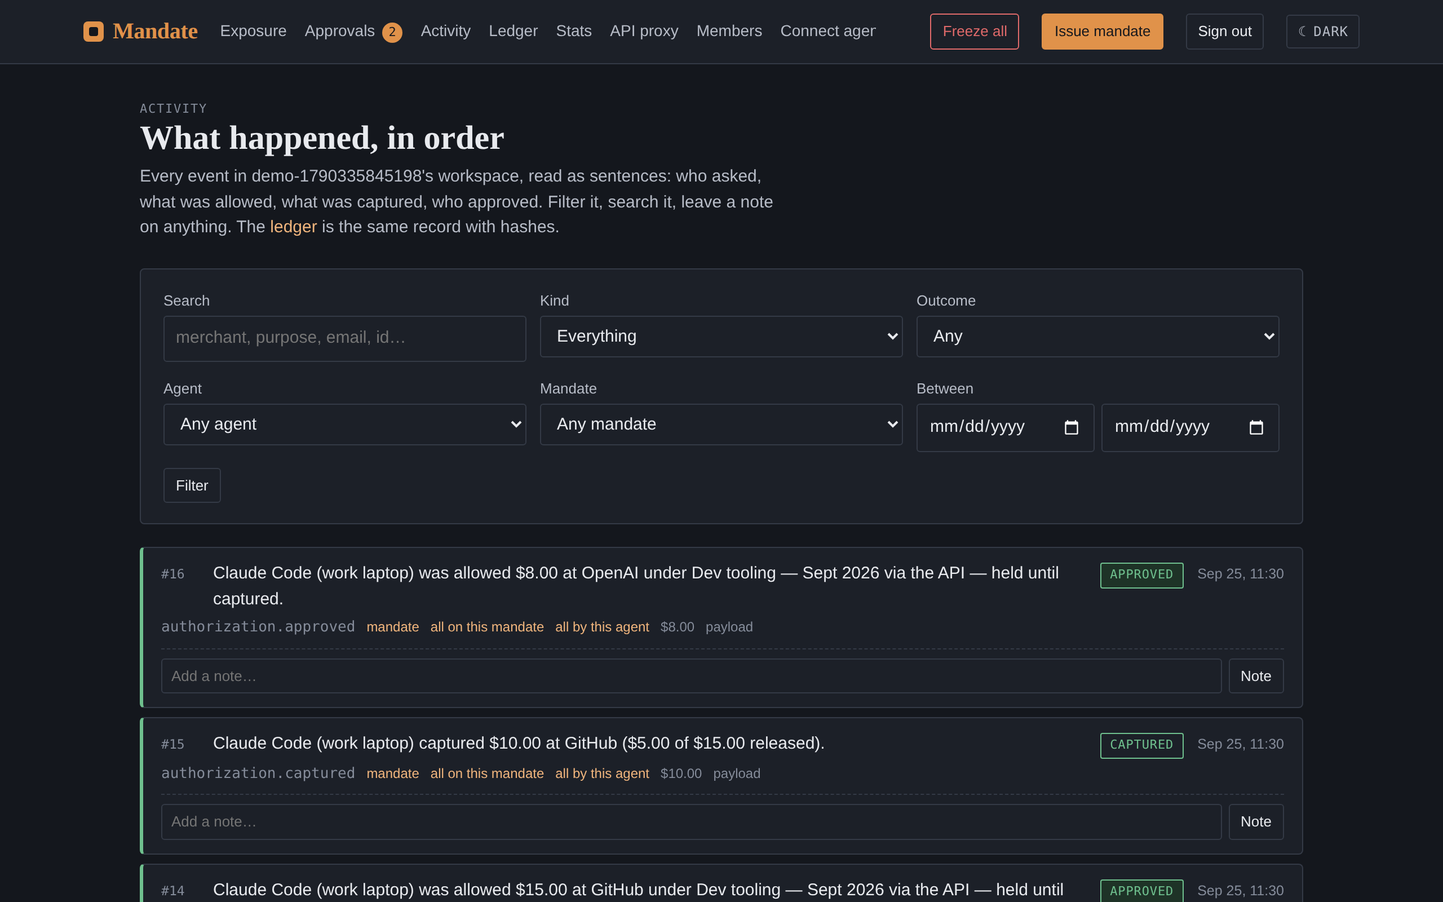
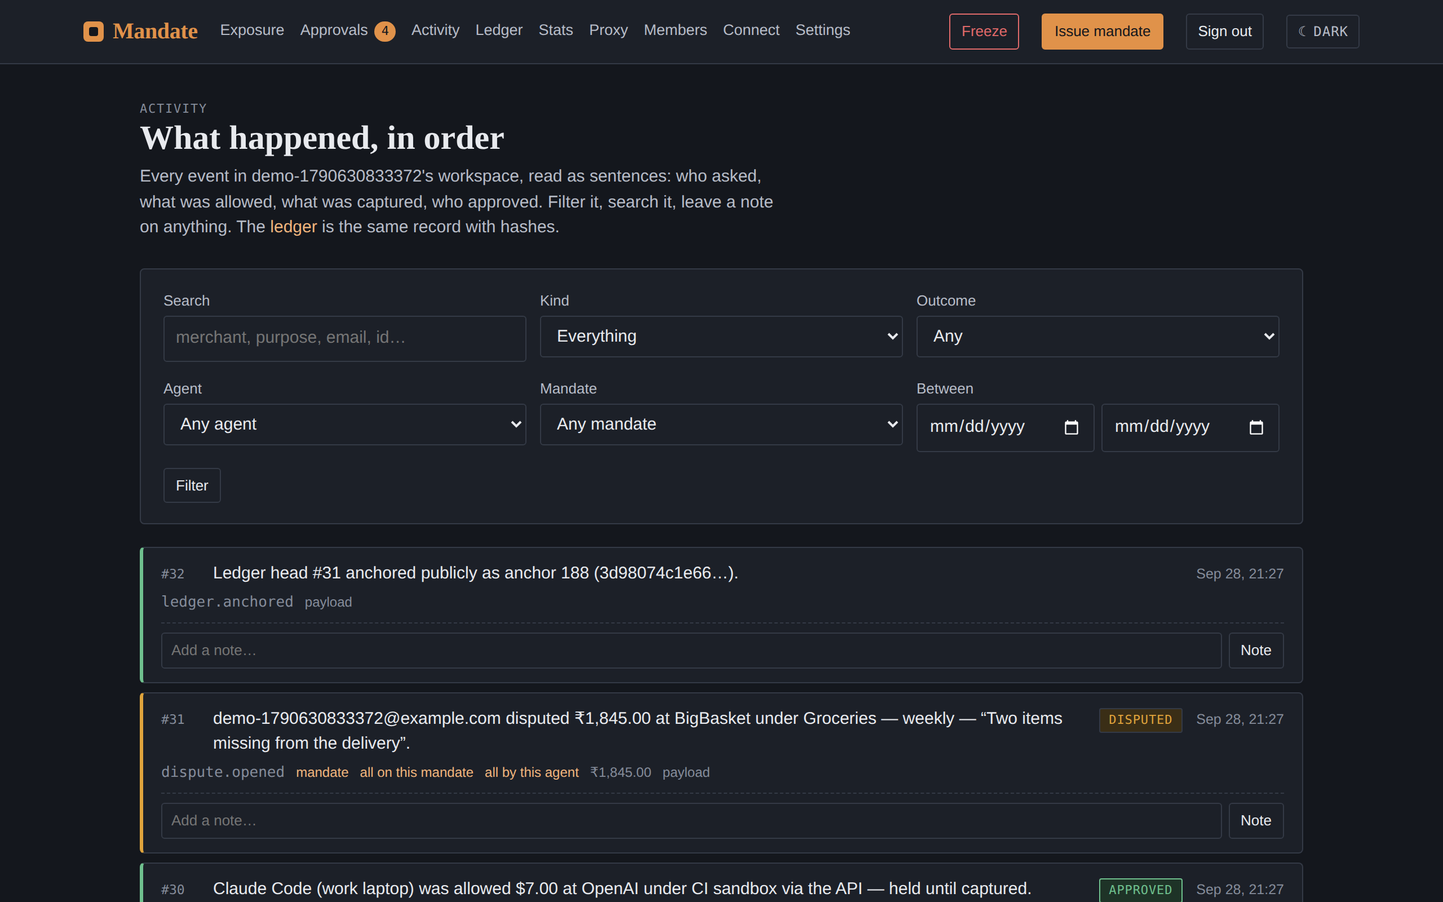
README: 0.7 feature tour and fresh screenshots; richer demo seed; top bar fits; exposure counts

diff --git a/app/api/dev/seed/route.ts b/app/api/dev/seed/route.ts
@@ -1,6 +1,8 @@
 import { NextResponse } from "next/server";
 import { getCtx, can } from "@/lib/session";
-import { createAgent, createMandate, authorize, listAgents, captureTransaction } from "@/lib/service";
+import { createAgent, createMandate, authorize, listAgents, captureTransaction, delegateMandate, openDispute } from "@/lib/service";
+import { addRoute } from "@/lib/routing";
+import { anchorWorkspace } from "@/lib/anchors";
 
 // Populates the signed-in user's workspace with a demo state. Development
 // only (or ALLOW_SEED=1); runs once per empty workspace. It mutates, so it
@@ -47,5 +49,34 @@ export async function POST() {
   if (seat.decision === "approved") await captureTransaction({ mandateId: dev.mandate.id }, seat.transactionId, { amount: 1000, by: "agent", note: "seat prorated" });
   results.push(seat, await authorize(dev.mandate, { amount: 800, merchant: "OpenAI", purpose: "Embeddings batch" }, "agent_api", { actor: `token ${dev.mandate.tokenPrefix}…` }));
 
-  return NextResponse.json({ seeded: true, workspace: ws, decisions: results.map((r) => r.decision), tokens: { dev: dev.token, home: home.token } });
+  // The newer machinery, so the demo shows it: a team mandate with a veto
+  // window and co-signing, a helper delegated out of it, a sandbox, a
+  // dispute, an approval route, and the first public anchor.
+  const extras: Record<string, unknown> = {};
+  try {
+    await addRoute(ws, { name: "Big spends → owner", minAmount: 30000, userIds: [ctx.userId], priority: 10 }, ctx.email);
+    const booker = await createAgent(ws, { name: "Travel booker", description: "Books flights, hotels and rides for the team offsite." });
+    const travel = await createMandate(ws, {
+      agentId: booker.id, name: "Offsite travel — Q4", currency: "USD",
+      perTxnLimit: 60000, dailyLimit: 150000, totalLimit: 400000, approvalAbove: 20000,
+      allowedMerchants: [], blockedCategories: ["gambling"], activeHoursStart: 0, activeHoursEnd: 24, timezone: "Asia/Kolkata", expiresAt: null,
+      vetoAbove: 10000, vetoMinutes: 30, cosignAbove: 40000, cosignCount: 2,
+    });
+    if (travel.ok) {
+      const t = travel.mandate;
+      await authorize(t, { amount: 8900, merchant: "Uber", purpose: "Airport transfer" }, "agent_api", { actor: `token ${t.tokenPrefix}…` });
+      await authorize(t, { amount: 15500, merchant: "MakeMyTrip", purpose: "Hotel, 2 nights, deposit" }, "agent_api", { actor: `token ${t.tokenPrefix}…` }); // veto window
+      await authorize(t, { amount: 45200, merchant: "IndiGo", purpose: "6 return fares, offsite" }, "agent_api", { actor: `token ${t.tokenPrefix}…` }); // needs two approvers
+      const helper = await delegateMandate(t, { name: "Fare watcher", perTxnLimit: 5000, dailyLimit: 10000, totalLimit: 20000, approvalAbove: 3000, allowedMerchants: ["Skyscanner*", "Google Flights"], agentName: "Fare watcher (sub-agent)", by: `token ${t.tokenPrefix}…` });
+      if (helper.ok) { const h = await authorize(helper.mandate, { amount: 1200, merchant: "Skyscanner API", purpose: "Fare alerts, weekly" }, "agent_api", { actor: `token ${helper.mandate.tokenPrefix}…` }); if (h.decision === "approved") await captureTransaction({ mandateId: helper.mandate.id }, h.transactionId, { by: "agent" }); extras.helper = helper.mandate.id; }
+      extras.travel = t.id;
+    }
+    const sandbox = await createMandate(ws, { agentId: coder.id, name: "CI sandbox", currency: "USD", perTxnLimit: 5000, dailyLimit: 15000, totalLimit: 50000, approvalAbove: 2000, allowedMerchants: [], blockedCategories: [], activeHoursStart: 0, activeHoursEnd: 24, timezone: "UTC", expiresAt: null, sandbox: true });
+    if (sandbox.ok) { await authorize(sandbox.mandate, { amount: 700, merchant: "OpenAI", purpose: "integration test run" }, "agent_api", { actor: "ci" }); extras.sandbox = sandbox.mandate.id; }
+    const grocery = results[5];
+    if (grocery.decision === "approved") await openDispute(ws, grocery.transactionId, { reason: "Two items missing from the delivery", by: ctx.email });
+    await anchorWorkspace(ws);
+  } catch (e) { extras.error = (e as Error).message; }
+
+  return NextResponse.json({ seeded: true, workspace: ws, decisions: results.map((r) => r.decision), tokens: { dev: dev.token, home: home.token }, extras });
 }

diff --git a/app/page.tsx b/app/page.tsx
@@ -18,7 +18,11 @@ export default async function ExposurePage({ searchParams }: { searchParams: Pro
   ]);
   // Sandbox mandates and sub-mandates stay out of the headline totals: the
   // first are tests, the second already count inside their parents.
-  const active = book.filter((b) => b.effectiveStatus === "active" && b.mandate.sandbox !== 1 && !b.mandate.parentId);
+  const live = book.filter((b) => b.effectiveStatus === "active");
+  const active = live.filter((b) => b.mandate.sandbox !== 1 && !b.mandate.parentId);
+  const inactive = book.length - live.length;
+  const subCount = live.filter((b) => b.mandate.parentId).length;
+  const sandboxCount = live.filter((b) => b.mandate.sandbox === 1).length;
   const byCcy = new Map<string, { limit: number; used: number }>();
   for (const b of active) {
     const c = byCcy.get(b.mandate.currency) ?? { limit: 0, used: 0 };
@@ -67,7 +71,7 @@ export default async function ExposurePage({ searchParams }: { searchParams: Pro
       </div>
 
       <div className="kpis">
-        <div className="kpi"><div className="eyebrow">Active mandates</div><div className="v num">{active.length}</div><div className="s">{agents.length} agent{agents.length === 1 ? "" : "s"} · {book.length - active.length} revoked or expired</div></div>
+        <div className="kpi"><div className="eyebrow">Active mandates</div><div className="v num">{active.length}</div><div className="s">{agents.length} agent{agents.length === 1 ? "" : "s"}{subCount > 0 && <> · {subCount} sub-mandate{subCount === 1 ? "" : "s"}</>}{sandboxCount > 0 && <> · {sandboxCount} sandbox</>} · {inactive} revoked or expired</div></div>
         <div className="kpi"><div className="eyebrow">Sanctioned limit</div>
           <div className="v num">{[...byCcy].map(([c, v]) => fmt(v.limit, c)).join(" + ") || "—"}</div>
           <div className="s">total across active mandates</div></div>

diff --git a/app/panic.tsx b/app/panic.tsx
@@ -16,7 +16,7 @@ export function PanicButton({ action }: { action: (form: FormData) => void | Pro
   }, []);
   return (
     <details ref={ref} className="menu panic" open={open} onToggle={(e) => setOpen((e.target as HTMLDetailsElement).open)}>
-      <summary className="btn danger sm" title="Freeze every agent in this workspace, on every rail, right now">Freeze all</summary>
+      <summary className="btn danger sm" title="Freeze every agent in this workspace, on every rail, right now">Freeze</summary>
       <form action={action} className="menu-body form" style={{ minWidth: 280 }}>
         <div style={{ fontSize: 13.5 }}><strong>Stop every agent now?</strong> Every request in this workspace will be declined — cards, API, MCP and proxy — until you unfreeze. Nothing is revoked.</div>
         <div className="field"><label htmlFor="panic-reason">Why (optional)</label><input id="panic-reason" name="reason" placeholder="agent is looping" autoComplete="off" /></div>

diff --git a/app/layout.tsx b/app/layout.tsx
@@ -61,10 +61,10 @@ export default async function RootLayout({ children }: { children: React.ReactNo
                 <Link href="/activity">Activity</Link>
                 <Link href="/ledger">Ledger</Link>
                 <Link href="/stats">Stats</Link>
-                <Link href="/proxy">API proxy</Link>
+                <Link href="/proxy">Proxy</Link>
                 {stripeEnabled() && <Link href="/balance">Balance</Link>}
                 <Link href="/members">Members</Link>
-                <Link href="/connect">Connect agents</Link>
+                <Link href="/connect">Connect</Link>
                 <Link href="/settings">Settings</Link>
               </nav>
             )}

diff --git a/app/globals.css b/app/globals.css
@@ -49,7 +49,7 @@ p{margin:0 0 10px;max-width:68ch}
 .brand .mark{width:18px;height:18px;border-radius:4px;background:var(--brand);display:inline-block;position:relative}
 .brand .mark::after{content:"";position:absolute;left:5px;top:5px;width:8px;height:8px;border-radius:2px;background:var(--bg)}
 .brand:hover{text-decoration:none}
-.nav{display:flex;gap:16px;font-size:14px;overflow-x:auto;scrollbar-width:none;min-width:0}
+.nav{display:flex;gap:14px;font-size:13.5px;overflow-x:auto;scrollbar-width:none;min-width:0}
 .nav::-webkit-scrollbar{display:none}
 .nav a{color:var(--ink-2);padding:6px 0;border-bottom:2px solid transparent}
 .nav a:hover{text-decoration:none;color:var(--ink)}

diff --git a/README.md b/README.md
@@ -1,11 +1,11 @@
 <p align="center">
-  <img src="docs/images/exposure.png" alt="Mandate — the exposure book: what your agents may spend, and what they have" width="100%">
+  <img src="docs/images/exposure.png" alt="Mandate — the exposure book: every agent's mandate, sub-mandates and sandboxes, what they may spend and what they have, with the panic button in the top bar" width="100%">
 </p>
 
 <h1 align="center">Mandate</h1>
 
 <p align="center"><strong>Scoped, revocable spending authority for AI agents.</strong><br>
-Give an agent a limit instead of a card. Every request is decided against the terms you set, every decision is written to a signed ledger, and revoking cuts the agent off instantly.</p>
+Give an agent a limit instead of a card. Every request is decided against the terms you set, every decision is written to a signed, publicly anchored ledger, and one button freezes everything.</p>
 
 <p align="center">
   <a href="https://github.com/Ivan825/Mandate/actions/workflows/ci.yml"><img src="https://github.com/Ivan825/Mandate/actions/workflows/ci.yml/badge.svg" alt="CI"></a>
@@ -39,6 +39,8 @@ Mandate replaces the card with a **mandate**: how much per transaction, per day 
 | **MCP + OAuth 2.1** — Claude, ChatGPT, Cursor, any MCP client | A scoped OAuth token from a one-click consent | Mandate, on every tool call |
 | **API-key proxy** — OpenAI / Anthropic / Gemini | A proxy key bound to a mandate; the real key never leaves Mandate | Mandate prices, pre-authorises and settles each call |
 | **REST** — your own code | A `mnd_…` token shown once at issue | Mandate decides; the agent reports merchant and amount |
+| **Any HTTP API** — a scraper, a data vendor, your own service | A proxy key bound to a mandate and a *target*; the credential is injected server-side | Mandate prices each call (fixed, or from the response) and settles it |
+| **Vouchers** — merchants, no account needed | A signed, offline-verifiable authorisation the agent hands over with the order | The merchant verifies with a public key and redeems it for what was sold |
 | **Virtual cards** — Stripe Issuing (operator opt-in) | A card bound to a mandate, funded from a prepaid balance | Every authorisation decided in real time by the same engine |
 
 ## Connect an agent
@@ -83,44 +85,59 @@ curl -X POST https://mandate-ashen.vercel.app/api/agent/capture \
 ```
 
 <p align="center">
-  <img src="docs/images/mandate.png" alt="A mandate: terms, utilisation, escalation, and a simulator to try it as the agent" width="49%">
-  <img src="docs/images/approvals.png" alt="The approval inbox with one-tap approve and deny" width="49%">
+  <img src="docs/images/mandate.png" alt="A mandate: limits, veto window, co-signing, holds, and a simulator to try it as the agent" width="49%">
+  <img src="docs/images/approvals.png" alt="The approval inbox: a veto window going through unless cancelled, a request routed to you that needs two co-signers" width="49%">
 </p>
 
 ## What you get
 
-- **Terms, not trust.** Per-transaction, daily and lifetime limits; merchant allow-list; blocked categories; active hours in the agent's timezone; expiry; an "ask me above" threshold.
-- **Holds, not charges.** An approval is a hold; the agent captures what it actually paid (less releases the difference) or voids it, and an unsettled hold closes by the mandate's policy when its TTL runs out.
-- **A "no" the agent can act on.** Every decline says when the same request would pass, the most that would pass right now, and what to do instead — so agents plan instead of hammering.
-- **Veto windows.** "Above $50, tell me and go ahead in 15 minutes unless I cancel." Approval by silence for the amounts that shouldn't wake you up but that you want the right to stop.
-- **Pre-approved plans.** The agent lists what it intends to buy; you approve the list once; each item then passes without a prompt while anything outside it still asks.
-- **Shadow mode.** Run new terms without enforcing them: nothing is declined, and you get a report of what would have been — then switch to enforce.
-- **Policy time-travel.** Change the terms and replay the mandate's real history through the real engine to see which past decisions would have gone the other way.
-- **Graduated autonomy.** A mandate that earns its limits: every N clean decisions the per-transaction limit and the ask-me-above threshold step up toward a ceiling; a denial steps them back.
-- **Human-signed approvals.** Approve with your passkey and the receipt carries a WebAuthn signature over the exact decision — proof a person on a registered device decided, not a script with a cookie.
-- **A panic button.** Two clicks freeze every agent in the workspace on every rail — cards, API, MCP, proxy — without revoking anything; lift it and everything is exactly as it was.
-- **Authorisation vouchers.** An approval comes with a signed, offline-verifiable voucher the agent hands to the merchant, who checks it with a public key and redeems it for what was actually sold — a payment authorisation with no card network in the loop.
-- **Co-signing.** Above a threshold an approval needs two (or up to five) distinct people; one denial ends it; the receipt shows who signed.
-- **Approval routing.** "Above $500 → finance", "category travel → ops", "this mandate → its sponsor": the first matching route decides who is notified and whose inbox owns the request.
-- **Sub-mandates.** An agent carves a narrower mandate out of its own for a helper — limits within its own, merchants within its list, no later expiry; the helper's spend counts against the parent and dies with it. Three levels deep.
-- **Disputes.** Contest any decision from its row: the mandate can pause, approvers settle it as refunded (the limits net down), upheld or withdrawn, and every step is on the ledger.
-- **Public ledger anchoring.** Once a day every ledger head that moved is signed into a public, deployment-wide anchor chain at `/anchors`, so not even the operator can rewrite history unnoticed; receipts point at the anchor that covers them.
-- **Sandbox mandates.** `mnd_test_` tokens that decide, ask and record exactly like live ones, never touch a card or a real API, stay out of your totals and reset in one click.
-- **Govern any API.** Add any HTTP API as a proxy target — a scraping service, a data vendor, your own internal service — with its credential stored encrypted and a price per call (fixed, from a header, or from the JSON): every call is a governed purchase.
-- **Pause and temporary raises.** Freeze an agent for an hour or until you say so without killing its token; lift one limit for a window ("$150 today only") without editing the issued terms.
-- **Anomaly flags.** Unusual amount, first-time merchant, decline bursts and rapid repeats are flagged on the request itself — in the inbox, the feed, the email and the webhook.
-- **Approvals that agents can wait for.** Requests above the threshold park as *pending*; you approve once from email, a webhook (n8n, Zapier, Make, your own endpoint) or the inbox; the agent retries with the same idempotency key and goes through exactly once.
-- **Approve from your phone.** Install it as a PWA; approval requests arrive as push notifications with Approve / Deny buttons that work from the lock screen.
-- **Public receipts.** Share any decision as a signed page anyone can verify in their browser — the request, the answer, the terms, the human approval and the ledger rows with their hashes.
-- **Templates and a connect wizard.** Start a mandate from a preset or duplicate one; the wizard fills the token into snippets for Claude, Cursor, Python, TypeScript or curl and tells you when the first call lands.
-- **Event webhooks.** Every ledger event, pushed as signed JSON to your own endpoints with retries and ordering — build the Slack bridge, the finance export or the dashboard you want.
-- **An activity feed you can read.** The ledger as sentences: filter by agent, mandate, outcome or date, search it, leave notes on anything.
-- **A ledger you can hand to someone.** Append-only SHA-256 chain per workspace, Ed25519-signed exports, and a public verifier — anyone can check a receipt without an account.
-- **Metered LLM spend.** Store provider keys encrypted, hand out proxy keys, and see estimate vs settled cost per call, streaming included — and the same for any other API through custom targets.
-- **Workspaces and roles.** Personal and shared workspaces; owners, admins, approvers, viewers; invitations by email.
-- **Stats.** Spend by day/week/month/year, by agent or merchant, decline reasons, a weekday×hour heat map and a written reading of the trend.
-- **Any currency.** Mandates in 38 currencies with the right minor units and formatting; a default per workspace. Nothing is ever converted.
-- **Sign-in without passwords.** Google, email links, passkeys. Light and dark themes.
+<p align="center">
+  <img src="docs/images/activity.png" alt="The activity feed: every decision, approval and change as a sentence, with notes" width="49%">
+  <img src="docs/images/anchors.png" alt="Public ledger anchors: signed daily statements of where every ledger stood" width="49%">
+</p>
+
+**The terms.** Per-transaction, daily and lifetime limits; a merchant allow-list; blocked categories; active hours in the agent's timezone; expiry; and the amount above which the agent must ask you first. An approval is a hold, not a charge — the agent captures what it actually paid (less returns the difference) or voids it, and an unsettled hold closes by policy when its TTL runs out. Every decline says when the same request would pass, the most that would pass right now, and what to do instead.
+
+**Ways to say yes.**
+- **Ask me above** — the classic threshold; approve once from the inbox, an email link, a webhook or a push notification with Approve / Deny on the lock screen.
+- **Veto windows** — "above $50, tell me and go ahead in 15 minutes unless I cancel." Approval by silence for the amounts that shouldn't wake you up.
+- **Plans** — the agent lists what it intends to buy; you approve the list once; each item then passes without a prompt.
+- **Co-signing** — above a threshold, two (or up to five) distinct people must sign; one denial ends it.
+- **Approval routing** — "above $500 → finance", "category travel → ops", "this mandate → its sponsor". The first matching route decides who is notified and whose inbox owns the request.
+- **Human-signed approvals** — approve with a passkey and the receipt carries a WebAuthn signature over the exact decision: proof a person on a registered device decided, not a script with a cookie.
+
+**Ways to say stop.**
+- **Panic button** — two clicks freeze every agent in the workspace on every rail, without revoking anything; lift it and everything is exactly as it was.
+- **Pause** an agent for an hour or until you say so; **revoke** and it is cut off instantly, sub-mandates included.
+- **Disputes** — contest any decision from its row; the mandate can pause; approvers settle it as refunded (the limits net down), upheld or withdrawn.
+- **Anomaly flags** — unusual amount, first-time merchant, decline bursts and rapid repeats, flagged on the request itself.
+
+**Authority that travels.**
+- **Vouchers** — an approval comes with a signed token the agent hands to the merchant, who verifies it offline with a public key and redeems it for what was actually sold. A payment authorisation with no card network in the loop.
+- **Sub-mandates** — an agent carves a narrower mandate out of its own for a helper: limits within its own, merchants within its list, no later expiry. The helper's spend counts against the parent and dies with it; three levels deep.
+- **Temporary raises** — lift one limit for a window ("$150 today only") without editing the issued terms.
+
+**Tuning without risk.**
+- **Shadow mode** — run new terms without enforcing them and get a report of what would have been declined or asked, then switch to enforce.
+- **Policy time-travel** — change the terms and replay the mandate's real history through the real engine to see which past decisions would have gone the other way.
+- **Graduated autonomy** — a mandate that earns its limits: every N clean decisions the per-transaction limit and the ask-me-above threshold step up toward a ceiling; a denial steps them back.
+- **Sandbox mandates** — `mnd_test_` tokens that decide, ask and record exactly like live ones, never touch a card or a real API, stay out of your totals and reset in one click.
+- **Templates and a connect wizard** — start from a preset or duplicate a mandate; the wizard fills the token into snippets for Claude, Cursor, Python, TypeScript or curl and tells you when the first call lands.
+
+**A record nobody can quietly rewrite.**
+- **Ledger** — append-only SHA-256 chain per workspace, Ed25519-signed exports, a public verifier.
+- **Public anchoring** — once a day every ledger head that moved is signed into a deployment-wide anchor chain at `/anchors`, so not even the operator can rebuild history unnoticed; receipts point at the anchor that covers them.
+- **Public receipts** — share any decision as a signed page anyone can verify in their browser: the request, the answer, the terms, the human approval and the ledger rows with their hashes.
+- **Activity feed** — the ledger as sentences: filter by agent, mandate, outcome or date, search it, leave notes on anything.
+- **Event webhooks** — every ledger event pushed as signed JSON to your own endpoints with retries and ordering; build the Slack bridge, the finance export or the dashboard you want.
+
+**Metering and money.**
+- **LLM proxy** — store OpenAI / Anthropic / Gemini keys encrypted, hand out proxy keys, see estimate vs settled cost per call, streaming included.
+- **Any API as a governed merchant** — add a target with its credential and a price per call (fixed, from a response header, or from the JSON); every call is decided and recorded like a purchase.
+- **Virtual cards** — Stripe Issuing cards bound to a mandate and funded from a prepaid balance, every swipe decided in real time (operator opt-in).
+- **Any currency** — 38 currencies with the right minor units; a default per workspace; nothing is ever converted. **Stats** by day/week/month, by agent or merchant, decline reasons, a weekday×hour heat map.
+
+**People.** Personal and shared workspaces; owners, admins, approvers, viewers; invitations by email; sign-in with Google, email links or passkeys; installable as a PWA; light and dark themes.
 
 ## Run it locally
 
@@ -155,7 +172,8 @@ Also included: a single-server AWS deployment with automatic HTTPS and backups (
 - Agents never hold a card, an account password or a provider key — only a token scoped to one mandate, or an OAuth grant bound to one workspace with the member's live role re-checked on every call.
 - Decisions are idempotent: concurrent retries collapse to one, *pending* is never replayed, terminal answers are.
 - Postgres-backed rate limits per token, key, address and auth endpoint. Webhook targets must be on the public internet. Provider keys are encrypted with a key held outside the database.
-- Production refuses to start without its secrets. Receipts verify against the server's own key only.
+- Production refuses to start without its secrets. Receipts, vouchers and anchors verify against the server's own key only; the daily public anchor chain means even the operator cannot rewrite a ledger unnoticed.
+- The panic button is a workspace fact the engine checks first, on every rail, before any mandate is consulted.
 
 Found something? See [`SECURITY.md`](SECURITY.md).
 
@@ -171,7 +189,7 @@ Found something? See [`SECURITY.md`](SECURITY.md).
 
 ## Status
 
-Free public beta. Working and exercised end to end: MCP/OAuth (tested against Claude's real client), API-key proxy for three providers, REST tokens and SDKs with holds and capture, approvals with push, veto windows, plans, shadow mode, time-travel, graduated autonomy, passkey-signed approvals, event webhooks, the activity feed, public receipts, ledger and receipts, stats, workspaces, email and webhook notifications. Virtual cards are complete in code and tested with signed Stripe events; enabling them needs the operator's Stripe Issuing approval. Billing is deliberately not built yet. See [`CHANGELOG.md`](CHANGELOG.md).
+Free public beta, version 0.7. Working and exercised end to end (128 browser-driven checks, 33 integration tests, 22 unit tests): MCP/OAuth (tested against Claude's real client), the LLM proxy for three providers and custom API targets, REST tokens and SDKs with holds, capture and vouchers, approvals with push, co-signing and routing, veto windows, plans, sub-mandates, disputes, the panic button, shadow mode, time-travel, graduated autonomy, passkey-signed approvals, sandbox mandates, event webhooks, the activity feed, public receipts, public ledger anchoring, stats, workspaces, email and webhook notifications. Virtual cards are complete in code and tested with signed Stripe events; enabling them needs the operator's Stripe Issuing approval. Billing is deliberately not built yet. See [`CHANGELOG.md`](CHANGELOG.md).
 
 ## Contributing
 
